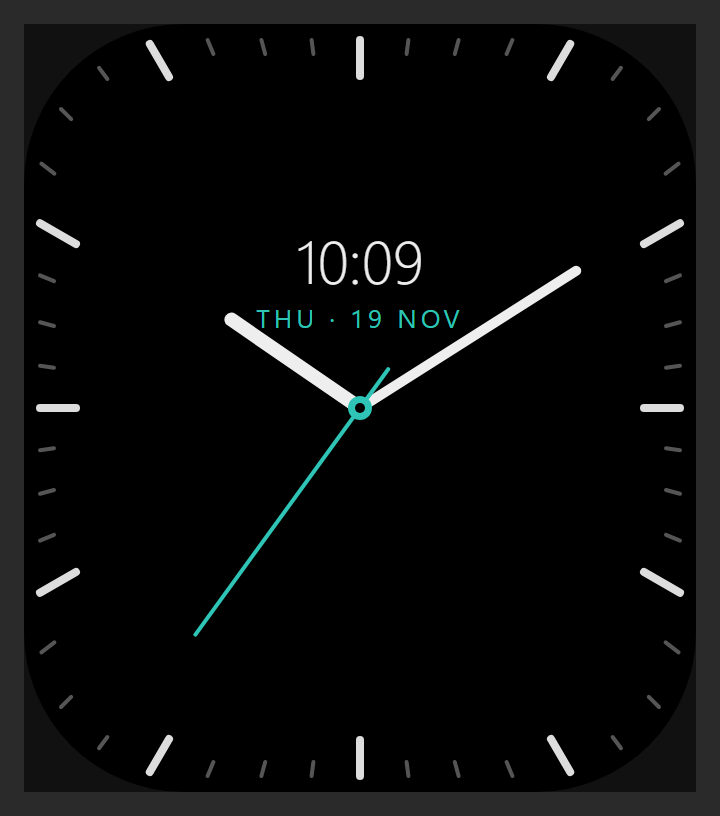
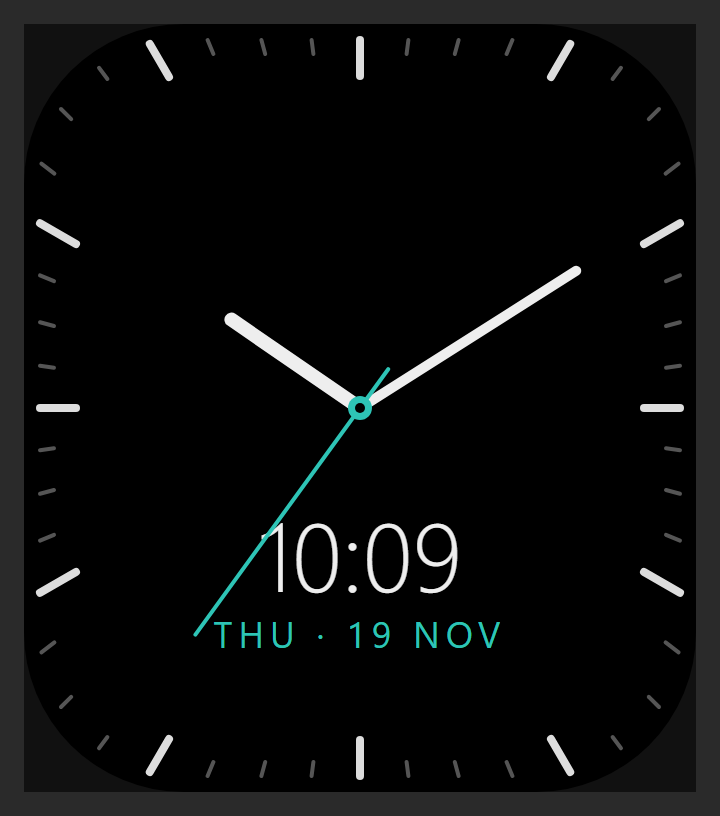
Watch face D: bigger digital time and date at the bottom

diff --git a/watchface/mockups/make_mockups.py b/watchface/mockups/make_mockups.py
@@ -140,8 +140,8 @@ def design_d():
     h, m, s = angles()
     return svg(f"""
 {ticks(8, 18, 7, 4, 2, between=3)}
-<text x="{CX}" y="{CY-62}" text-anchor="middle" {FONT} font-size="30" font-weight="300" fill="#eee">10:09</text>
-<text x="{CX}" y="{CY-40}" text-anchor="middle" {FONT} font-size="13" letter-spacing="2" fill="{TEAL}">THU · 19 NOV</text>
+<text x="{CX}" y="{CY+92}" text-anchor="middle" {FONT} font-size="48" font-weight="300" fill="#eee">10:09</text>
+<text x="{CX}" y="{CY+120}" text-anchor="middle" {FONT} font-size="18" letter-spacing="3" fill="{TEAL}">THU · 19 NOV</text>
 {hand(h, 78, 7, "#eee")}
 {hand(m, 128, 5, "#eee")}
 {hand(s, 140, 2, TEAL, tail=24)}
